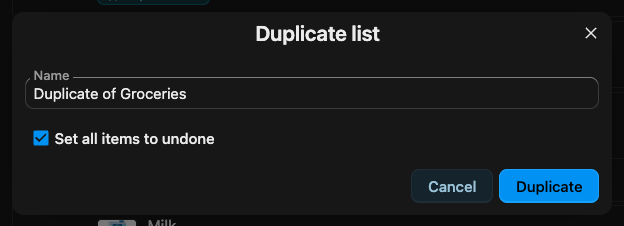
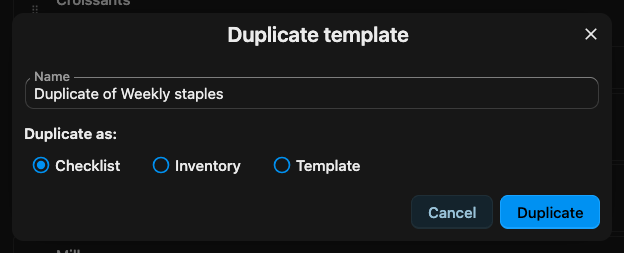
docs(website): templates page

diff --git a/website/src/content/docs/docs/using/shopping-mode.md b/website/src/content/docs/docs/using/shopping-mode.md
@@ -4,7 +4,7 @@ description:
   Start a trip from your lists, walk your stores, shop it together with the house, and finish with a
   priced review.
 sidebar:
-  order: 5
+  order: 6
 ---
 
 ## What it does
